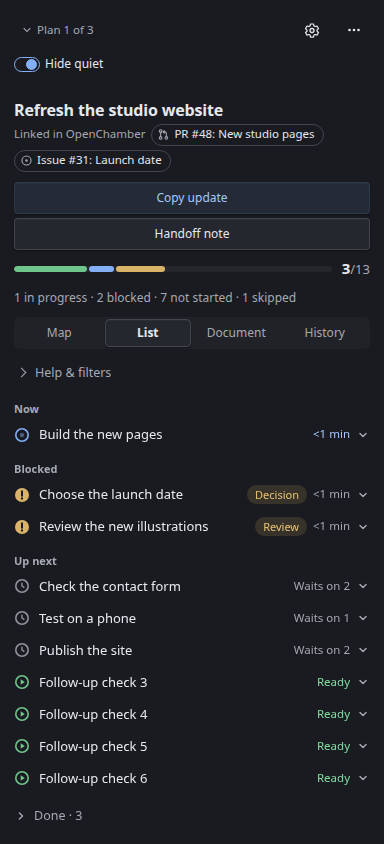
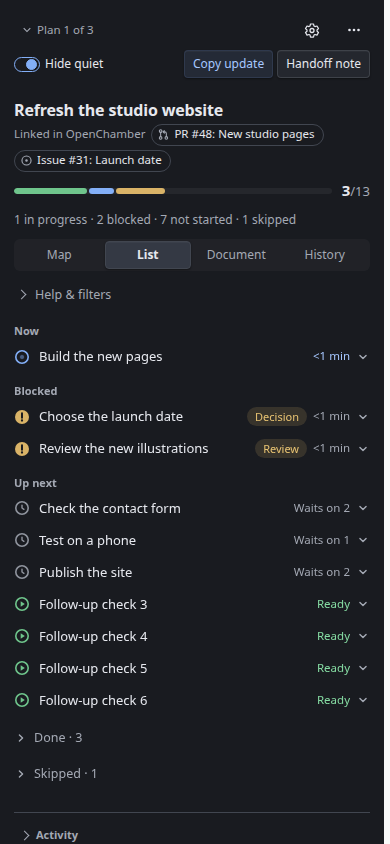
fix(ui): fold rail plan actions into the Hide quiet row

diff --git a/ui/shared/style.ts b/ui/shared/style.ts
@@ -804,9 +804,11 @@ ${PHONE_CSS}
 .ap-rail-bar{display:grid;gap:2px}
 .ap-rail-chooser{justify-content:flex-end}
 .ap-rail-chooser>.ap-picker{flex:1 1 auto;min-width:0}
-.ap-rail-bar>.ap-quiet-check{justify-self:start}
-.ap-rail-summaries{display:grid;gap:4px}
-.ap-rail-summaries button{width:100%}
+/* Hide quiet at the start; the plan's two summary buttons stay small at the end and wrap below it when narrow */
+.ap-rail-tools{display:flex;flex-wrap:wrap;align-items:center;gap:4px 8px;min-width:0}
+.ap-rail-tools>.ap-quiet-check{min-width:0}
+.ap-rail-summaries{display:flex;flex-wrap:wrap;justify-content:flex-end;gap:4px;margin-inline-start:auto;min-width:0;max-width:100%}
+.ap-rail-summaries .oc-sdk-btn[data-size]{white-space:normal;height:auto;min-height:28px;padding-inline:8px;overflow-wrap:anywhere}
 .ap-library-actions{margin-inline-start:auto}
 .ap-library-actions .ap-inbox-toggle{width:auto;min-height:32px;padding:0 8px;border-radius:calc(var(--oc-radius,9px) - 2px);white-space:nowrap}
 .ap-library-actions .ap-inbox-toggle:hover{background:var(--oc-hover)}
@@ -816,11 +818,11 @@ ${PHONE_CSS}
 .ap-plan-list-head .ap-region-h{padding-inline:8px;font-size:13px;font-weight:600;color:var(--oc-fg)}
 /* Shell buttons share one text size and the kit's control corner, whatever their kit size */
 :is(.ap-plan-top>[data-testid="surface-more"],.ap-rail-summaries,.ap-plan-list-head,.ap-library-tidy,.ap-document-heading,.ap-list-help,[data-testid="cleanup-modes"]) .oc-sdk-btn[data-size]{font-size:12px;border-radius:calc(var(--oc-radius,9px) - 2px)}
-:is(.ap-plan-top>[data-testid="surface-more"],.ap-rail-summaries) .oc-sdk-btn{padding-inline:12px}
+.ap-plan-top>[data-testid="surface-more"] .oc-sdk-btn{padding-inline:12px}
 .ap[data-surface="panel"]{gap:10px}
 .ap-detail>.ap-plan-head,.ap-detail>.ap-progress-line,.ap-detail>.ap-progress-legend{margin-block-end:8px}
 .ap-plan-top>[data-testid="surface-more"]{gap:2px;flex-wrap:wrap;justify-content:flex-end;max-width:100%;margin-inline-start:auto}
-:is(.ap-plan-top>[data-testid="surface-more"],.ap-rail-summaries) .oc-sdk-btn{white-space:normal;height:auto;min-height:32px}
+.ap-plan-top>[data-testid="surface-more"] .oc-sdk-btn{white-space:normal;height:auto;min-height:32px}
 :is(.ap-plan-top>[data-testid="surface-more"],.ap-rail-summaries) button:focus-visible{outline:2px solid var(--oc-focus);outline-offset:-2px}
 .ap-plan-top .ap-plan-title{font-size:16px;line-height:1.3}
 /* One segmented control, drawn like the kit's tracked tabs: a faint track, the chosen view raised */
@@ -878,8 +880,8 @@ ${PHONE_CSS}
 @media(max-width:500px){.ap-board-bar .ap-search-field,.ap-library-title{flex-basis:100%}.ap-library-actions{gap:2px}.ap-more-popup{max-width:min(232px,calc(100vw - 40px))}}
 @media(max-width:320px){.ap-library-actions{justify-content:flex-end;flex:1 1 auto}.ap-board-bar .ap-search-row{gap:4px}.ap-filters-trigger{padding-inline:6px}}
 @media(max-width:240px){.ap[data-surface="panel"] .ap-surface-view-switch{grid-template-columns:repeat(2,minmax(0,1fr))}}
-@media(pointer:coarse){.ap-more-row,.ap-more .ap-actions-btn,.ap-list-help>summary,.ap-quiet-check,.ap-library-actions .ap-inbox-toggle,.ap-surface-view-switch .oc-sdk-btn,.ap-plan-top>[data-testid="surface-more"] .oc-sdk-btn,.ap-rail-summaries .oc-sdk-btn{min-height:44px;min-width:44px}}
-[data-device-pointer="coarse"] :is(.ap-more-row,.ap-more .ap-actions-btn,.ap-list-help>summary,.ap-quiet-check,.ap-library-actions .ap-inbox-toggle,.ap-surface-view-switch .oc-sdk-btn,.ap-plan-top>[data-testid="surface-more"] .oc-sdk-btn,.ap-rail-summaries .oc-sdk-btn){min-height:44px;min-width:44px}
+@media(pointer:coarse){.ap-more-row,.ap-more .ap-actions-btn,.ap-list-help>summary,.ap-quiet-check,.ap-library-actions .ap-inbox-toggle,.ap-surface-view-switch .oc-sdk-btn,.ap-plan-top>[data-testid="surface-more"] .oc-sdk-btn,.ap-rail-summaries .oc-sdk-btn[data-size]{min-height:44px;min-width:44px}}
+[data-device-pointer="coarse"] :is(.ap-more-row,.ap-more .ap-actions-btn,.ap-list-help>summary,.ap-quiet-check,.ap-library-actions .ap-inbox-toggle,.ap-surface-view-switch .oc-sdk-btn,.ap-plan-top>[data-testid="surface-more"] .oc-sdk-btn,.ap-rail-summaries .oc-sdk-btn[data-size]){min-height:44px;min-width:44px}
 @media(forced-colors:active){
 .ap-more-popup,.ap-more .ap-actions-btn,.ap-surface-view-switch .oc-sdk-btn{border:1px solid ButtonText}
 .ap-surface-view-switch .oc-sdk-btn[aria-pressed="true"],.ap-more-row[aria-checked="true"]{border-color:Highlight;outline:1px solid Highlight;outline-offset:-2px}

diff --git a/ui/shared/components.ts b/ui/shared/components.ts
@@ -722,7 +722,9 @@ export class ProgressShell {
     return holder;
   }
   paint<U>(root: HTMLElement, vc: ViewContext<U>, plan: PlanView | null, options: {
-    board?: boolean; scope?: string; picker?: HTMLElement | null; railActions?: HTMLElement;
+    board?: boolean; scope?: string; picker?: HTMLElement | null;
+    /** Rail only: More goes into `railActions`; Copy update and Handoff note into `railSummaries` (the Hide quiet row). */
+    railActions?: HTMLElement; railSummaries?: HTMLElement;
     renderPanel: (kind: SurfacePanel) => HTMLElement;
     closePanel?: (kind: SurfacePanel) => void;
   }) {
@@ -783,7 +785,7 @@ export class ProgressShell {
       const linked = linkedWorkChips(plan, vc.env);
       if (linked) meta.append(linked);
       root.append(head);
-      if (summary && options.railActions) root.append(summaries);
+      if (summary && options.railActions) (options.railSummaries ?? root).append(summaries);
       const s = summarize(plan, ready);
       root.append(progressBlock(s, false, vc.env.locale));
       const legend = testid(el('p', 'ap-progress-legend'), 'progress-legend');

diff --git a/ui/panel/main.ts b/ui/panel/main.ts
@@ -71,11 +71,14 @@ function surface(root: HTMLElement, vc: ViewContext<Ui>, plan: PlanView | null, 
     if (kind === 'setup') vc.requestSetup();
     if (kind === 'troubleshooting') { const p = claim(); if (!p.open) p.toggle(); else p.refresh(); }
   }));
-  bar.append(chooser, quietCheck(vc));
+  // Hide quiet on the start side; the plan's Copy update and Handoff note join it at the end.
+  const tools = el('div', 'ap-rail-tools');
+  tools.append(quietCheck(vc));
+  bar.append(chooser, tools);
   root.prepend(bar);
   const notice = quietNotice(vc); if (notice) bar.after(notice);
   return shell.paint(root, vc, plan, {
-    railActions: chooser,
+    railActions: chooser, railSummaries: tools,
     closePanel: kind => { if (kind === 'setup') retireSetupSteps(); },
     renderPanel: kind => {
       if (kind === 'setup') return setupBlock(vc);

diff --git a/docs/ui.md b/docs/ui.md
@@ -328,12 +328,12 @@ Entries `ui/{panel,status,page}/index.html` load `main.js`, the generated instal
 
 ## Surfaces
 
-**Right rail (`ui/panel`).** Shows the scoped plans, never merged. With several, the chooser above the header lists every scoped plan with its done/total or lifecycle. More and Settings share the chooser row, with Hide quiet nearby. The two summary buttons each span the rail; the four view segments share one group. Settings and Hide quiet stay available even without a plan.
+**Right rail (`ui/panel`).** Shows the scoped plans, never merged. With several, the chooser above the header lists every scoped plan with its done/total or lifecycle. More and Settings share the chooser row. Hide quiet starts the row below it; the selected plan's **Copy update** and **Handoff note** sit at the end of that row as small buttons and wrap below the switch, still end-aligned, when the rail or a translated label is too narrow. Without a plan or summaries the row holds only Hide quiet. The four view segments share one group. Settings and Hide quiet stay available even without a plan.
 - The chosen plan is **persisted per session** in host storage (`rail-plan:<sessionId>`), so it survives panel remounts and reloads.
 - Within the frame, recent session choices are also remembered by source-qualified plan key: A → B → A keeps the choice when still visible even if storage returns no saved preference. Store/source or integration-account changes clear this memory. A pending preference reply cannot override a newer explicit picker choice.
 - One group with **Map**, **List**, **Document** and **History** sits below the header, bar and text legend. **List** is the shared Progress list; **Map** is the full dependency map, not a subset. The default is Map for a new supported reading whose complete detail records a task-to-task prerequisite, otherwise List; below 320 CSS pixels a new reading starts on List and Map remains selectable. The choice latches for the reading, including after resizing. Session or plan-picker changes reset it, including A → B → A. No selected session means no group and no graph read.
 - **Host limit.** The host can't open the fullscreen board from the rail (the pinned SDK offers no page opener), so the rail hosts the map itself. Nothing in the rail opens, links to or synchronizes with the board.
-- Reading order begins with the chooser, quiet filter and Settings, then the plan header with lifecycle and actions, the progress bar and legend, and the four view controls. The rail has no location row. Only active plans older than one hour show their last report age; failed viewer reads retain their separate, non-dismissible retry line.
+- Reading order begins with the chooser, Settings and More, then Hide quiet, Copy update and Handoff note, then the plan header with lifecycle, the progress bar and legend, and the four view controls. The rail has no location row. Only active plans older than one hour show their last report age; failed viewer reads retain their separate, non-dismissible retry line.
 - Sessions, Setup and Troubleshooting are temporary panels with **Back**, not additional views. Rail History shows the selected plan's recorded revisions, not the board's change digest.
 - **Plan document** in the sidebar and board shows the saved capture, not the live file. A saved `.md` path (case-insensitive) shows a formatted preview with read-only checklist marks. If the Markdown is too complex to preview, the full capture is shown as literal text, like other formats. HTML is inert and images show only their alternative text. Only explicit activation of a valid absolute HTTP(S) link asks OpenChamber to open it outside the progress view (see [document rules](contracts.md#dto-meanings)). If the host cannot open the link, it shows a localized error toast. Loading, retry, and capture warnings still apply. The board's recorded-capture comparison shows literal text, including Markdown markup.
 - Leaving the Setup panel (Back, Escape or another shell navigation/reset) retires its step presentation just like hiding or disposing the frame: no further steps are queued and late replies cannot restart it. This does not cancel or abort an in-flight setup operation or change its durable journal. Reopening reads current status; continuing unfinished steps still needs an explicit action.
@@ -718,7 +718,7 @@ automatic post-compaction **recorded-pointer capsule**, and grant no authority.
 
 ## Previewable summaries
 
-**Copy update** and **Handoff note** in the plan header open an inline preview for the selected plan on the rail and board. Work Status stays compact, without these actions. Both formats cover the whole selected plan, regardless of task filters, participant filters or collapsed groups; they never combine plans. They use recorded progress only: no model, new service endpoint, source-document body or transcript read, reporting operation or progress mutation.
+**Copy update** and **Handoff note** (in the board's plan header, and in the rail's Hide quiet row) open an inline preview for the selected plan on the rail and board. Work Status stays compact, without these actions. Both formats cover the whole selected plan, regardless of task filters, participant filters or collapsed groups; they never combine plans. They use recorded progress only: no model, new service endpoint, source-document body or transcript read, reporting operation or progress mutation.
 - **Preview and copy.** Opening never copies, including after a read finishes. The labelled, read-only plain-text textarea is selectable and shows the exact Markdown passed to the explicit **Copy Markdown** action. Its selection and vertical scroll position survive unrelated paints while the preview generation is unchanged. Titles containing Markdown or HTML remain text, never executable UI. Copy is disabled without preview text or while a write is pending. Copy success (`Markdown copied.`) is announced only after the clipboard write resolves. An absent, throwing or rejecting clipboard API reports `Clipboard unavailable. Select and copy the preview text below.`, not success; the same text remains available to select and copy manually. Controls are keyboard-operable; feedback uses `role="status"` with polite, atomic announcements. Close returns focus once to the button that opened the preview.
 - **Complete input.** One accepted detail read supplies the matching summary, all item pages and all contribution pages. Loading is not an empty summary; a failed or bounded-out read never supplies partial tasks as full detail. No list-row summary is joined to older detail. A read ahead of the list waits for its matching revision before becoming a full preview.
 - **Progress update, in order.** `Plan: <title> (<plan id>)`, with ` (archived)` appended when recorded; `Lifecycle`; `Progress: D/T done; R remaining; S skipped`; `Last report` from `reportedAt`, in absolute UTC. Lifecycle uses the existing labels, including Finished. A `Remaining breakdown: W working; B blocked; P pending` line appears only when those task-row counts reconcile with the server's remaining count. Next come **Current work**, **Explicitly blocked**, and, only when relevant, **Freshness warnings**. Blocked task titles say `— blocker details omitted from this summary`: reported reasons, next actions, provenance and waiting times stay out of summaries. Empty work sections say `No current work is recorded.` or `No explicitly blocked work is recorded.` The title is not an objective.

diff --git a/README.md b/README.md
@@ -36,7 +36,7 @@ Agent Progress is an [OpenChamber](https://github.com/openchamber/openchamber) e
     <th width="50%">Work Status</th>
   </tr>
   <tr>
-    <td align="center"><img src="docs/images/readme/rail.png" alt="Right rail: plan chooser with Settings and More, Hide quiet, the plan title with two linked work chips, Copy update and Handoff note, the progress bar, and the List view with Now, Blocked and Up next tasks" width="390"></td>
+    <td align="center"><img src="docs/images/readme/rail.png" alt="Right rail: plan chooser with Settings and More, Hide quiet beside small Copy update and Handoff note buttons, the plan title with two linked work chips, the progress bar, and the List view with Now, Blocked and Up next tasks" width="390"></td>
     <td align="center"><img src="docs/images/readme/work-status.png" alt="Work Status: plan title with position picker, progress bar, running and Needs you counts, and Open progress" width="322"></td>
   </tr>
   <tr>

diff --git a/openspec/specs/progress-surface-hierarchy/spec.md b/openspec/specs/progress-surface-hierarchy/spec.md
@@ -29,7 +29,7 @@ With a selected plan, the board and rail SHALL show one plan header, progress wi
 
 #### Scenario: Plan actions on the rail
 - **WHEN** the rail shows a selectable plan with available summaries
-- **THEN** its plan switcher shares the first line with Settings and plan More; Copy update and Handoff note each occupy a full-width button and the four segments form one full-width group
+- **THEN** its plan switcher shares the first line with Settings and plan More; the next line starts with the quiet-plan switch and ends with Copy update and Handoff note as small buttons, which wrap below the switch when the rail is too narrow, and the four segments form one full-width group
 - **AND** the quiet-plan switch is accessible with plan choice, including with a single choice, without adding an entry to either menu
 
 #### Scenario: Explicit choice

diff --git a/CHANGELOG.md b/CHANGELOG.md
@@ -4,6 +4,10 @@ All notable changes to this project are documented in this file. The format is b
 
 ## [Unreleased]
 
+### Changed
+
+- The rail's **Copy update** and **Handoff note** are small buttons at the end of the **Hide quiet** row instead of two full-width rows under the plan title; they wrap below the switch on a narrow rail. The board is unchanged.
+
 ## [1.7.0] - 2026-11-28
 
 The board and rail put plan actions and views in reach, and the selected plan can show its main session's linked pull requests and issues. Unfinished Setup can continue after a btrfs device number changes when the original disk and subvolume can be verified. The minimum host remains OpenChamber 2.7.1. Protocol and schema stay at 2.
